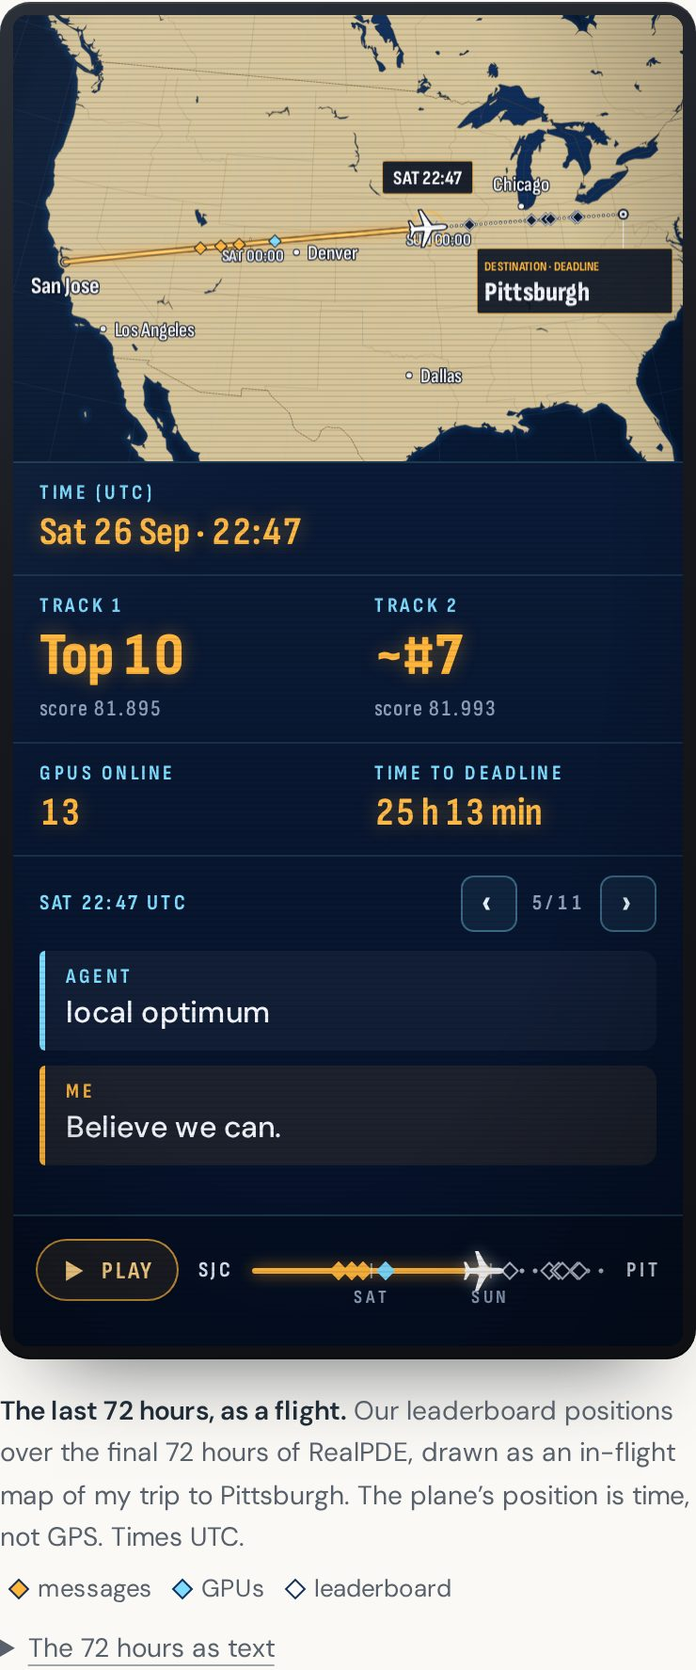
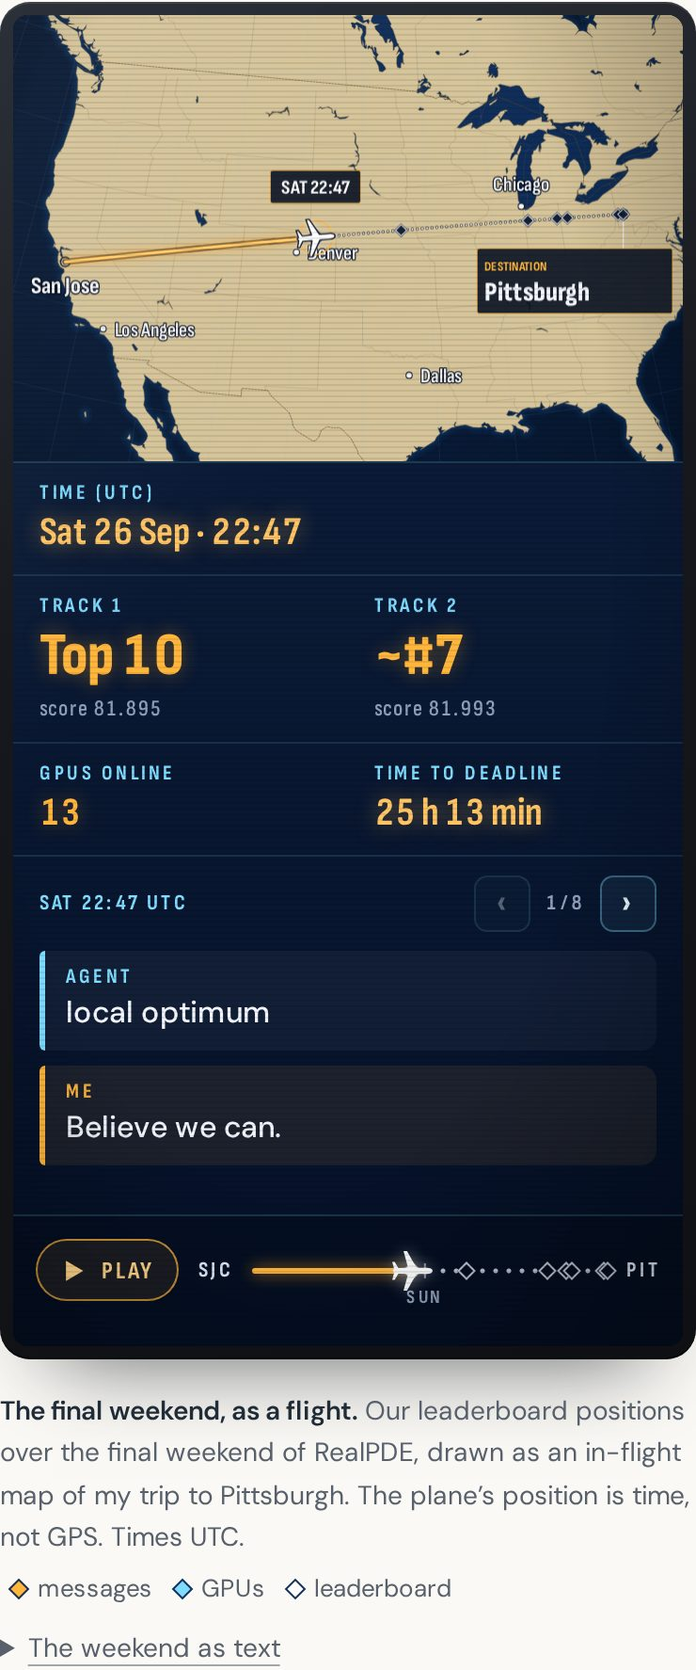
It's just possible: the flight figure covers only the final weekend
San doesn't want anything published that shows, even indirectly, that his messages
overlapped weekday work hours. The figure is now "The final weekend, as a flight": Saturday
07:00 UTC (midnight Pacific) to Sunday 18:10 UTC, when both tracks were first, and the
plane lands at Pittsburgh then. It opens with 13 GPUs online and Track 1 at 81.895 (top 10),
Track 2 at 81.993 (about 7th); its eight waypoints are all on the weekend. The Friday
exchanges and everything earlier are gone from the map, the panel, the scrubber, the text
list, the Markdown mirror and the crawler edition, and the site check asserts it. The map no
longer marks the day boundary (the scrubber does), and the destination flag no longer says
deadline. The caption is San's new one.

The prompt cards are named by the bold words that introduce them, so main's new CLAUDE.md
note and keep-pushing skill read "CLAUDE.md" and "Skill". The message cards carry only a
sender and a running number.

diff --git a/src/pages/notes/its-just-possible/components/FlightFigure.jsx b/src/pages/notes/its-just-possible/components/FlightFigure.jsx
@@ -1,18 +1,18 @@
 import { useEffect, useRef, useState } from 'react';
 import { queueBuild } from '../../../../components/art/build-queue';
-import { WAYPOINTS, SPAN, OPENING, stateAt, stamp, eventLog } from '../flight/timeline';
+import { WAYPOINTS, SPAN, SUNDAY, OPENING, stateAt, stamp, eventLog } from '../flight/timeline';
 import { PLANE_PATH } from './Leg';
 
-// "The last 72 hours, as a flight": a seatback moving map. The map's still is in the HTML;
+// "The final weekend, as a flight": a seatback moving map. The map's still is in the HTML;
 // once the figure is near the screen and the browser is idle, the same map is drawn live in a
 // canvas over it (src/pages/notes/its-just-possible/flight/). The panel, messages and controls
 // are real HTML, so they work before the canvas arrives, without it, and for screen readers.
 const ART = '/images/notes/its-just-possible';
 const LAST = WAYPOINTS[WAYPOINTS.length - 1].t;
-const RATE = 150;          // minutes of the weekend per second of playback
+const RATE = 80;           // minutes of the weekend per second of playback
 const DWELL = 1.6;         // seconds held at each waypoint
 const SENDER = { Agent: 'Agent', Me: 'Me', Fleet: 'GPUs', Leaderboard: 'Leaderboard' };
-const describe = s => `${s.clock.day} ${s.clock.date}, ${s.clock.time} UTC. Track 1 ${s.track1?.rank || 'rank unknown'}, Track 2 ${s.track2?.rank || 'no upload yet'}, ${s.gpus} GPUs online.`;
+const describe = s => `${s.clock.day} ${s.clock.date}, ${s.clock.time} UTC. Track 1 ${s.track1.rank}, Track 2 ${s.track2.rank}, ${s.gpus} GPUs online.`;
 
 function Readout({ label, value, sub, className = '' }) {
   return <div className={`ijp-readout ${className}`}>
@@ -104,7 +104,7 @@ export default function FlightFigure() {
           <picture>
             <source media="(max-width: 600px)" srcSet={`${ART}/flight-map-phone-760.webp`} />
             <img src={`${ART}/flight-map-1400.webp`} srcSet={`${ART}/flight-map-700.webp 700w, ${ART}/flight-map-1400.webp 1400w`} sizes="(max-width: 1060px) 70vw, 720px"
-              width="1400" height="933" alt="An in-flight map of the United States: a glowing route from San Jose to Pittsburgh, flown almost to the end, with waypoints along it for the messages and results of the final 72 hours." />
+              width="1400" height="933" alt="An in-flight map of the United States: a glowing route from San Jose to Pittsburgh, flown to the end, with waypoints along it for the messages and results of the final weekend." />
           </picture>
           <canvas ref={canvas} className={live ? 'is-live' : ''} aria-hidden="true" />
         </div>
@@ -112,8 +112,8 @@ export default function FlightFigure() {
         <div className="ijp-side">
           <div className="ijp-readouts">
             <Readout className="ijp-wide" label="Time (UTC)" value={`${s.clock.day} ${s.clock.date} · ${s.clock.time}`} />
-            <Readout className="ijp-rank" label="Track 1" value={s.track1?.rank || '—'} sub={s.track1 ? `score ${s.track1.score}` : 'no upload yet'} />
-            <Readout className="ijp-rank" label="Track 2" value={s.track2?.rank || '—'} sub={s.track2 ? `score ${s.track2.score}` : 'no upload yet'} />
+            <Readout className="ijp-rank" label="Track 1" value={s.track1.rank} sub={`score ${s.track1.score}`} />
+            <Readout className="ijp-rank" label="Track 2" value={s.track2.rank} sub={`score ${s.track2.score}`} />
             <Readout label="GPUs online" value={s.gpus} />
             <Readout label="Time to deadline" value={s.toGo} />
           </div>
@@ -128,7 +128,7 @@ export default function FlightFigure() {
             </div>
             <div className="ijp-message-body" aria-live="polite">
               {wp ? wp.lines.map(([who, text], i) => <p key={i} className={`ijp-line is-${who.toLowerCase()}`}><span className="ijp-who">{SENDER[who]}</span><span className="ijp-said">{text}</span></p>)
-                : <p className="ijp-line is-quiet"><span className="ijp-said">Friday, 00:00 UTC. 72 hours to the deadline.</span></p>}
+                : <p className="ijp-line is-quiet"><span className="ijp-said">Saturday morning: 13 GPUs online, Track 1 in the top 10, Track 2 about 7th.</span></p>}
             </div>
           </div>
         </div>
@@ -136,27 +136,27 @@ export default function FlightFigure() {
         <div className="ijp-bar">
           <button type="button" className="ijp-play" onClick={() => setPlaying(p => !p)} aria-pressed={playing}>
             <svg viewBox="0 0 16 16" width="14" height="14" aria-hidden="true">{playing ? <path d="M3 2h3.5v12H3zM9.5 2H13v12H9.5z" /> : <path d="M3.5 1.8 14 8 3.5 14.2z" />}</svg>
-            <span>{playing ? 'Pause' : atEnd ? 'Replay the 72 hours' : 'Play'}</span>
+            <span>{playing ? 'Pause' : atEnd ? 'Replay' : 'Play'}</span>
           </button>
           <span className="ijp-code">SJC</span>
           <div className="ijp-track" style={{ '--at': pct(t) }}>
             <span className="ijp-track-flown" aria-hidden="true" />
             {WAYPOINTS.map(w => <span key={w.t} className={`ijp-tick is-${w.kind}${w.t <= t ? ' is-passed' : ''}`} style={{ left: pct(w.t) }} aria-hidden="true" />)}
-            {[['Sat', 1440], ['Sun', 2880]].map(([d, v]) => <span key={d} className="ijp-day" style={{ left: pct(v) }} aria-hidden="true">{d}</span>)}
+            <span className="ijp-day" style={{ left: pct(SUNDAY) }} aria-hidden="true">Sun</span>
             <span className="ijp-thumb" aria-hidden="true"><svg viewBox="-11 -11 22 22" width="24" height="24"><path d={PLANE_PATH} /></svg></span>
             <input type="range" min="0" max={SPAN} step="1" value={Math.round(t)} onChange={event => go(Number(event.target.value))} onKeyDown={onKey}
-              aria-label="Time through the final 72 hours" aria-valuetext={describe(s)} />
+              aria-label="Time through the final weekend" aria-valuetext={describe(s)} />
           </div>
           <span className="ijp-code">PIT</span>
         </div>
       </div>
     </div>
     <figcaption>
-      <strong>The last 72 hours, as a flight.</strong> Our leaderboard positions over the final 72 hours of RealPDE, drawn as an in-flight map of my trip to Pittsburgh. The plane’s position is time, not GPS. Times UTC.
+      <strong>The final weekend, as a flight.</strong> Our leaderboard positions over the final weekend of RealPDE, drawn as an in-flight map of my trip to Pittsburgh. The plane’s position is time, not GPS. Times UTC.
       <span className="ijp-legend" aria-hidden="true"><i className="is-chat" /> messages <i className="is-fleet" /> GPUs <i className="is-board" /> leaderboard</span>
     </figcaption>
     <details className="ijp-log">
-      <summary>The 72 hours as text</summary>
+      <summary>The weekend as text</summary>
       <ol>{eventLog().map(e => <li key={e.t + e.text}><time>{e.when}</time> {e.text}</li>)}</ol>
     </details>
   </figure>;

diff --git a/src/pages/notes/its-just-possible/flight/timeline.js b/src/pages/notes/its-just-possible/flight/timeline.js
@@ -1,34 +1,30 @@
-// The final 72 hours of the RealPDE development phase, for the figure "The last 72 hours, as
-// a flight". Times are UTC, as minutes from Friday 25 September 00:00; the phase closed at
-// midnight on Sunday, so the flight lands at minute 4320. Quotes follow the essay's wording.
-export const START = Date.UTC(2026, 8, 25, 0, 0);
-export const SPAN = 72 * 60;
-const at = (day, h, m) => (day - 25) * 1440 + h * 60 + m;
+// The final weekend of the RealPDE development phase, for the figure "The final weekend, as a
+// flight": from Saturday 26 September 07:00 UTC to Sunday 18:10 UTC, when both tracks were
+// first. Times are minutes from the start; the plane lands at Pittsburgh at the end. The
+// figure covers only these hours. Quotes follow the essay's wording.
+export const START = Date.UTC(2026, 8, 26, 7, 0);
+const DEADLINE = Date.UTC(2026, 8, 28, 0, 0);
+const at = (day, h, m) => (Date.UTC(2026, 8, day, h, m) - START) / 60000;
+export const SPAN = at(27, 18, 10);
 
-// Our best leaderboard entries and ranks as reported at the time; null where we don't know.
+// Our best leaderboard entries and ranks as reported at the time.
 export const TRACK1 = [
-  { t: at(25, 0, 17), score: '81.679', rank: null },
-  { t: at(26, 0, 48), score: '81.895', rank: 'Top 10' },
+  { t: 0, score: '81.895', rank: 'Top 10' },
   { t: at(27, 14, 0), score: '81.895', rank: '#9' },
   { t: at(27, 17, 50), score: '82.218', rank: '#1' },
 ];
 export const TRACK2 = [
-  { t: at(25, 20, 4), score: '81.993', rank: '~#7' },
+  { t: 0, score: '81.993', rank: '~#7' },
   { t: at(26, 22, 50), score: '82.194', rank: '#2' },
   { t: at(27, 14, 0), score: '82.194', rank: '#5' },
   { t: at(27, 18, 10), score: '82.491', rank: '#1' },
 ];
-export const GPUS = [
-  { t: 0, n: '~4' }, { t: at(26, 3, 5), n: '13' }, { t: at(26, 23, 29), n: '15' }, { t: at(27, 12, 10), n: '17' },
-];
+export const GPUS = [{ t: 0, n: '13' }, { t: at(26, 23, 29), n: '15' }, { t: at(27, 12, 10), n: '17' }];
 
 // The waypoints: my messages, the agent's, and what changed. kind: 'chat' | 'fleet' | 'board'
 export const WAYPOINTS = [
-  { t: at(25, 17, 28), kind: 'chat', lines: [['Agent', 'No lever left… 82.3 is not reachable.']] },
-  { t: at(25, 20, 6), kind: 'chat', lines: [['Me', 'there is always ways to improve… if you think can’t then you can’t']] },
-  { t: at(25, 22, 28), kind: 'chat', lines: [['Agent', 'None of them is a robust #1.'], ['Me', 'stooppp!!!']] },
-  { t: at(26, 3, 5), kind: 'fleet', lines: [['Fleet', 'I add 9 GPUs: 13 online']] },
   { t: at(26, 22, 47), kind: 'chat', lines: [['Agent', 'local optimum'], ['Me', 'Believe we can.']] },
+  { t: at(26, 22, 50), kind: 'board', lines: [['Leaderboard', 'Track 2: 82.194, second']] },
   { t: at(27, 4, 11), kind: 'chat', lines: [['Me', 'Ok I am gonna leave you to it']] },
   { t: at(27, 12, 10), kind: 'fleet', lines: [['Fleet', 'The last four-hour push: 17 GPUs']] },
   { t: at(27, 14, 0), kind: 'board', lines: [['Leaderboard', '9th on Track 1, 5th on Track 2']] },
@@ -37,7 +33,9 @@ export const WAYPOINTS = [
   { t: at(27, 18, 10), kind: 'board', lines: [['Leaderboard', 'Track 2: first, 82.491']] },
 ];
 // The figure opens on the moment both tracks were first.
-export const OPENING = at(27, 18, 10);
+export const OPENING = SPAN;
+// The day boundary inside the weekend, for the route and the scrubber.
+export const SUNDAY = at(27, 0, 0);
 
 const DAYS = ['Sun', 'Mon', 'Tue', 'Wed', 'Thu', 'Fri', 'Sat'];
 const pad = n => String(n).padStart(2, '0');
@@ -46,24 +44,25 @@ export function clock(t) {
   return { day: DAYS[d.getUTCDay()], date: `${d.getUTCDate()} Sep`, time: `${pad(d.getUTCHours())}:${pad(d.getUTCMinutes())}` };
 }
 export const stamp = t => { const c = clock(t); return `${c.day} ${c.time}`; };
-export function toGo(t) { const left = Math.max(0, SPAN - Math.round(t)); return `${Math.floor(left / 60)} h ${pad(left % 60)} min`; }
-const latest = (list, t) => { let v = null; for (const e of list) if (e.t <= t) v = e; return v; };
+export function toGo(t) { const left = Math.max(0, Math.round((DEADLINE - START) / 60000 - t)); return `${Math.floor(left / 60)} h ${pad(left % 60)} min`; }
+const latest = (list, t) => { let v = list[0]; for (const e of list) if (e.t <= t) v = e; return v; };
 
 // Everything the screen shows at minute t.
 export function stateAt(t) {
   let wp = -1; WAYPOINTS.forEach((w, i) => { if (w.t <= t) wp = i; });
-  return { t, clock: clock(t), toGo: toGo(t), track1: latest(TRACK1, t), track2: latest(TRACK2, t), gpus: latest(GPUS, t)?.n ?? '~4', waypoint: wp };
+  return { t, clock: clock(t), toGo: toGo(t), track1: latest(TRACK1, t), track2: latest(TRACK2, t), gpus: latest(GPUS, t).n, waypoint: wp };
 }
 
-// The whole weekend as plain lines of text, for the figure's text version and the Markdown mirror.
+// The weekend as plain lines of text, for the figure's text version and the Markdown mirror.
 const rankWords = rank => rank === '~#7' ? 'about 7th' : rank === 'Top 10' ? 'top 10' : rank;
 export function eventLog() {
   const said = w => w.kind === 'chat' ? w.lines.map(([who, text]) => `${who}: “${text}”`).join(' ') : `${w.lines[0][1]}.`;
-  const lone = list => list.filter(e => !WAYPOINTS.some(w => w.t === e.t));
+  const lone = list => list.filter(e => e.t > 0 && !WAYPOINTS.some(w => w.t === e.t));
   return [
+    { t: 0, text: `Where we start: Track 1 ${TRACK1[0].score} (${rankWords(TRACK1[0].rank)}), Track 2 ${TRACK2[0].score} (${rankWords(TRACK2[0].rank)}), ${GPUS[0].n} GPUs online.` },
     ...WAYPOINTS.map(w => ({ t: w.t, text: said(w) })),
-    ...lone(TRACK1).map(e => ({ t: e.t, text: `Track 1 upload: ${e.score}${e.rank ? ` (${rankWords(e.rank)})` : ''}.` })),
-    ...lone(TRACK2).map(e => ({ t: e.t, text: `Track 2 upload: ${e.score}${e.rank ? ` (${rankWords(e.rank)})` : ''}.` })),
-    ...lone(GPUS.slice(1)).map(e => ({ t: e.t, text: `${e.n} GPUs online.` })),
-  ].sort((a, b) => a.t - b.t).map(e => ({ ...e, when: stamp(e.t) })).concat([{ t: SPAN, when: 'Mon 00:00', text: 'The development phase closes.' }]);
+    ...lone(TRACK1).map(e => ({ t: e.t, text: `Track 1: ${e.score} (${rankWords(e.rank)}).` })),
+    ...lone(TRACK2).map(e => ({ t: e.t, text: `Track 2: ${e.score} (${rankWords(e.rank)}).` })),
+    ...lone(GPUS).map(e => ({ t: e.t, text: `${e.n} GPUs online.` })),
+  ].sort((a, b) => a.t - b.t).map(e => ({ ...e, when: stamp(e.t) }));
 }

diff --git a/src/pages/notes/its-just-possible/flight/flight-map.js b/src/pages/notes/its-just-possible/flight/flight-map.js
@@ -1,4 +1,4 @@
-// The figure's moving map: "The last 72 hours, as a flight". The map, cities and the route
+// The figure's moving map: "The final weekend, as a flight". The map, cities and the route
 // still to fly are printed once per size; each frame adds the route flown so far, the
 // waypoints and the plane at minute t. The plane's position is time, not GPS.
 import { albers, fitView, greatCircle, drawMap, drawPlane, haloText, labelSpot, COLORS, PLACES, CITIES } from './map.js';
@@ -49,13 +49,6 @@ export async function createFlightMap({ canvas, width, height, small = false }) 
   b.lineCap = 'round'; b.lineJoin = 'round';
   b.strokeStyle = 'rgba(6,18,40,.7)'; b.lineWidth = 4.4; b.setLineDash([.1, 6.5]); line(b, route.pts); b.stroke();
   b.strokeStyle = 'rgba(255,255,255,.95)'; b.lineWidth = 2.4; line(b, route.pts); b.stroke(); b.setLineDash([]);
-  // day boundaries along the route
-  for (const [label, t] of [['SAT', 1440], ['SUN', 2880]]) {
-    const p = route.at(t / SPAN), nx = -Math.sin(p.angle), ny = Math.cos(p.angle);
-    b.strokeStyle = 'rgba(6,18,40,.85)'; b.lineWidth = 2.2; b.beginPath(); b.moveTo(p.x - nx * 7, p.y - ny * 7); b.lineTo(p.x + nx * 7, p.y + ny * 7); b.stroke();
-    b.strokeStyle = '#ffffff'; b.lineWidth = 1; b.stroke();
-    haloText(b, `${label} 00:00`, p.x + nx * 20, p.y + ny * 20 + 4, { font: `700 ${11 * k}px ${F}`, align: 'center', width: 3, color: '#dfe8f6' });
-  }
   // origin and destination
   const o = route.at(0), d = route.at(1);
   for (const p of [o, d]) { b.fillStyle = COLORS.halo; b.beginPath(); b.arc(p.x, p.y, 7.5, 0, TAU); b.fill(); b.fillStyle = COLORS.label; b.beginPath(); b.arc(p.x, p.y, 5, 0, TAU); b.fill(); b.fillStyle = COLORS.seaDeep; b.beginPath(); b.arc(p.x, p.y, 2, 0, TAU); b.fill(); }
@@ -66,7 +59,7 @@ export async function createFlightMap({ canvas, width, height, small = false }) 
   b.strokeStyle = COLORS.label; b.lineWidth = 1.3; b.beginPath(); b.moveTo(d.x, d.y + 8); b.lineTo(d.x, fy); b.stroke();
   b.fillStyle = 'rgba(5,14,32,.88)'; b.beginPath(); b.roundRect(fx, fy, fw, fh, 3); b.fill();
   b.strokeStyle = 'rgba(255,182,61,.85)'; b.lineWidth = 1.1; b.stroke();
-  b.textAlign = 'left'; b.fillStyle = COLORS.amber; b.font = `700 ${10 * kf}px ${F}`; b.fillText('DESTINATION · DEADLINE', fx + 10, fy + 17 * kf);
+  b.textAlign = 'left'; b.fillStyle = COLORS.amber; b.font = `700 ${10 * kf}px ${F}`; b.fillText('DESTINATION', fx + 10, fy + 17 * kf);
   b.fillStyle = COLORS.label; b.font = `800 ${21 * kf}px ${F}`; b.fillText('Pittsburgh', fx + 10, fy + 40 * kf);
 
   const marks = WAYPOINTS.map(w => ({ ...w, p: route.at(w.t / SPAN) }));

diff --git a/src/pages/notes/its-just-possible/its-just-possible.css b/src/pages/notes/its-just-possible/its-just-possible.css
@@ -36,6 +36,7 @@
 /* ── prompts and notes: the text I typed, as a system prompt ── */
 .personal-site .ijp-page .prose .ijp-card-head { position: relative; z-index: 1; display: flex; justify-content: space-between; gap: 16px; margin: 0; padding: 11px 20px 10px; border-bottom: 1px solid var(--ijp-rule); background: rgba(127, 220, 255, .07); font: 700 12px/1 var(--ijp-ui); letter-spacing: .16em; text-transform: uppercase; }
 .personal-site .ijp-page .ijp-card-label { color: var(--ijp-amber); }
+.personal-site .ijp-page .ijp-card-label.is-file { text-transform: none; letter-spacing: .08em; }
 .personal-site .ijp-page .ijp-card-to { color: var(--ijp-muted); }
 .personal-site .ijp-page .ijp-prompt-text, .personal-site .ijp-page .prose .ijp-note-list { position: relative; z-index: 1; padding: 16px 22px 18px; font: 400 15.5px/1.7 'JetBrains Mono', ui-monospace, monospace; color: #f4f7fc; }
 .personal-site .ijp-page .prose .ijp-prompt-text p { margin: 0 0 10px; padding-left: 1.3em; text-indent: -1.3em; }
@@ -118,7 +119,7 @@
   .personal-site .ijp-page .ijp-side { border-left: 0; border-top: 1px solid var(--ijp-rule); }
   .personal-site .ijp-page .ijp-readouts { grid-template-columns: 1.3fr 1fr 1fr; }
   .personal-site .ijp-page .ijp-readouts > :nth-child(2), .personal-site .ijp-page .ijp-readouts > :nth-child(4) { border-right: 0; }
-  .personal-site .ijp-page .ijp-readouts > :not(:last-child):not(.ijp-wide) { border-right: 1px solid rgba(127, 220, 255, .12); }
+  .personal-site .ijp-page .ijp-readouts > :not(:last-child):not(:nth-child(3)) { border-right: 1px solid rgba(127, 220, 255, .12); }
   .personal-site .ijp-page .ijp-wide { grid-column: auto; }
   .personal-site .ijp-page .ijp-message-body { min-height: 128px; }
 }
@@ -136,7 +137,7 @@
   .personal-site .ijp-page .ijp-lcd { border-radius: 8px; }
   .personal-site .ijp-page .ijp-readouts { grid-template-columns: 1fr 1fr; }
   .personal-site .ijp-page .ijp-wide { grid-column: 1 / -1; }
-  .personal-site .ijp-page .ijp-readouts > :not(:last-child):not(.ijp-wide) { border-right: 0; }
+  .personal-site .ijp-page .ijp-readouts > :not(:last-child):not(:nth-child(3)) { border-right: 0; }
   .personal-site .ijp-page .ijp-readouts > :nth-child(2), .personal-site .ijp-page .ijp-readouts > :nth-child(4) { border-right: 1px solid rgba(127, 220, 255, .12); }
   .personal-site .ijp-page .ijp-rank .ijp-val { font-size: 32px; }
   .personal-site .ijp-page .ijp-bar { gap: 10px; padding: 12px 12px 24px; }

diff --git a/src/pages/notes/its-just-possible/essay-source.js b/src/pages/notes/its-just-possible/essay-source.js
@@ -45,9 +45,10 @@ function classify(text, before) {
   const paras = text.split(/\n\s*\n/).map(p => p.trim()).filter(Boolean);
   if (paras.every(p => MESSAGE.test(p))) return { type: 'chat', messages: paras.map(p => ({ sender: MESSAGE.exec(p)[1], text: p.replace(MESSAGE, '') })) };
   if (paras.every(p => NOTE.test(p))) return { type: 'notes', notes: paras.map(p => ({ title: NOTE.exec(p)[1], text: p.replace(NOTE, '') })) };
-  // a prompt is named by the paragraph that introduces it
-  const lead = [...before].reverse().find(p => p.type === 'md')?.text.split('\n\n').pop() || '';
-  return { type: 'prompt', label: /goal/i.test(lead) ? 'Standing goal' : 'Prompt', text: paras.join('\n\n') };
+  // a prompt is named by the bold words of the paragraph that introduces it
+  const lead = ([...before].reverse().find(p => p.type === 'md')?.text.split('\n\n').pop() || '').match(/^\*\*([^*]+)\*\*/)?.[1] || '';
+  const [label, to] = /CLAUDE\.md|instructions/i.test(lead) ? ['CLAUDE.md', 'at the top of the file'] : /skill/i.test(lead) ? ['Skill', 'written by Claude'] : /goal/i.test(lead) ? ['Standing goal', 'to Claude Code'] : ['Prompt', 'to Claude Code'];
+  return { type: 'prompt', label, to, text: paras.join('\n\n') };
 }
 
 // For the section markers: how far through the essay each section starts, and the reading

diff --git a/src/pages/notes/its-just-possible/components/Cards.jsx b/src/pages/notes/its-just-possible/components/Cards.jsx
@@ -19,9 +19,9 @@ export function ChatCard({ messages }) {
   </blockquote>;
 }
 
-export function PromptCard({ label, text }) {
+export function PromptCard({ label, to, text }) {
   return <blockquote className="ijp-prompt">
-    <p className="ijp-card-head"><span className="ijp-card-label">{label}</span><span className="ijp-card-to">to Claude Code</span></p>
+    <p className="ijp-card-head"><span className={`ijp-card-label${/\.md$/.test(label) ? ' is-file' : ''}`}>{label}</span><span className="ijp-card-to">{to}</span></p>
     <div className="ijp-prompt-text">{text.split('\n\n').map((para, i) => <p key={i}><span className="ijp-caret" aria-hidden="true">›</span><Text>{para}</Text></p>)}</div>
   </blockquote>;
 }

diff --git a/src/pages/notes/its-just-possible/ItsJustPossibleEssay.jsx b/src/pages/notes/its-just-possible/ItsJustPossibleEssay.jsx
@@ -29,7 +29,7 @@ const components = { a: ({ href = '', children }) => <SiteLink href={href}>{chil
 
 function Piece({ piece }) {
   if (piece.type === 'chat') return <ChatCard messages={piece.messages} />;
-  if (piece.type === 'prompt') return <PromptCard label={piece.label} text={piece.text} />;
+  if (piece.type === 'prompt') return <PromptCard label={piece.label} to={piece.to} text={piece.text} />;
   if (piece.type === 'notes') return <NotesCard notes={piece.notes} />;
   if (piece.type === 'figure') return <FlightFigure />;
   return <ReactMarkdown remarkPlugins={[remarkGfm]} components={components}>{piece.text}</ReactMarkdown>;

diff --git a/design/reviews/2026-10-its-just-possible/README.md b/design/reviews/2026-10-its-just-possible/README.md
@@ -1,5 +1,24 @@
 # "It's just possible": review
 
+## The figure covers only the final weekend (October 3, 2026)
+
+San doesn't want anything published that shows, even indirectly, that his messages overlapped
+weekday work hours. The figure is now "The final weekend, as a flight": Saturday 26 September
+07:00 UTC (midnight Pacific) to Sunday 18:10 UTC, when both tracks were first, and the plane
+lands at Pittsburgh then. It starts with 13 GPUs online, Track 1 at 81.895 (top 10) and Track 2
+at 81.993 (about 7th). Its eight waypoints are all on the weekend: "local optimum" / "Believe we
+can." (Sat 22:47), Track 2 second (22:50), "Ok I am gonna leave you to it" (Sun 04:11), the last
+push on 17 GPUs (12:10), 9th and 5th (14:00), "why freeze early…" (14:39), Track 1 first (17:50),
+Track 2 first (18:10). Nothing from Friday or earlier appears in the map, panel, scrubber, text
+list, Markdown mirror or crawler edition; the site check asserts it. The essay's message cards
+carry only a sender and a running number (MSG 01 to 08). The prompt cards are now named by what
+introduces them: Prompt, CLAUDE.md, Standing notes and Skill.
+
+Screenshots: `figure-1-sun-1810-*` (the opening, both first), `figure-2-sat-0700-*` (the start),
+`figure-3-sat-2247-*` (the first waypoint), `card-claude-md-*`, `card-skill-*`, and
+`figure-still-no-javascript-desktop.jpg`. Earlier screenshots of the 72-hour version were removed
+from this folder; they remain in the repository's history.
+
 ## Art pass (October 3, 2026)
 
 San's notes after reading milestone 1 live: the essay must follow the site's taste rules (its own
@@ -12,21 +31,19 @@ highlighted better". The text is his rewrite from main, unchanged.
 - **Prompt and note cards.** The opening prompt, the standing goal and the standing notes read as
   what I typed: a system-prompt card in JetBrains Mono with a caret, labelled Prompt, Standing goal
   and Standing notes. The labels come from the paragraph that introduces each block.
-- **The figure**, "The last 72 hours, as a flight", closes the section "The weekend": a seatback
+- **The figure** (since narrowed to the final weekend, above) closes the section "The weekend": a seatback
   screen with the live map, a panel (time, both ranks and scores, GPUs online, time to deadline),
   the current waypoint's messages, and a flight-progress scrubber with Play, previous and next.
   It opens on Sunday 18:10, both tracks first. Arrow keys move 30 minutes, Page Up and Page Down
   six hours, Home and End to either end. With reduced motion, Play steps from waypoint to waypoint.
   The map's still is in the HTML; the canvas is drawn over it when the figure nears the screen.
-  "The 72 hours as text" lists every event; the Markdown mirror and crawler edition carry it too.
+  A text list under the figure lists every event; the Markdown mirror and crawler edition carry it too.
 - **Cover.** A tighter fit, a cased and glowing route, a larger title plate. The live layer: the
   plane inches along, the dots ahead march to Pittsburgh and the rank readouts flicker now and then.
 - **Section strips.** The essay opens with "Now boarding · 8 min to destination", each section
   with the plane as far along as the reader is and the reading time left, and lands at "Arrived".
 
-Screenshots, 1440 and 390 wide: `header-*`, `section-break-*`, `card-messages-*`, `card-goal-*`,
-`card-notes-*`, `figure-1-sun-1810-*`, `figure-2-fri-2228-*`, `figure-3-sat-2247-*`, `cover.jpg`,
-and `figure-still-no-javascript-desktop.jpg` (the prerendered page without scripts).
+Screenshots, 1440 and 390 wide: `header-*`, `section-break-*`, `card-messages-*`, `card-notes-*` and `cover.jpg`.
 
 ## Milestone 1 (October 3, 2026)
 

diff --git a/docs/design/2026-10-02-site-wide-art-direction.md b/docs/design/2026-10-02-site-wide-art-direction.md
@@ -110,5 +110,5 @@ and add the new style to it.
 | Two hands, one sheet of paper (IROS 2026 essay) | Origami instruction diagrams in Yoshizawa–Randlett notation: thin confident ink on warm paper, dashed valley and dot-dash mountain folds, curved fold arrows, step numbers in circles, a grey tint for the paper's back, and one accent, the blue of the challenge sheet's printed guide lines. The hands in the diagrams are two five-fingered robot hands with fingertip sensor pads, in the same line. Lettering: Zen Maru Gothic. The cover is step 2 of 5 (first version live; a five-folds step-through figure and a cover polish follow). Distinct from the earlier origami study, which was a photographed folded-paper model |
 | Paper Robots homepage proposal | Evidence-loop camcorder opening (blue-violet halftone space, folded-paper screen) leading into each film's own title card |
 | Dyson Swarm samples (proposals) | 1970s airbrush and frisket travel posters; astronomical glass-plate negative with ink and grease-pencil annotations; plein-air watercolour over a graphite underdrawing |
-| It's just possible (essay, October 2026) | Airline seatback moving map, the Airshow look: deep navy sea, flat sand land, a thin 5° graticule, Natural Earth coastlines with state and border lines, a glowing amber great-circle route with the rest dotted, a small white plane, a destination flag, and data panels in Sofia Sans Condensed with cyan labels and amber readouts, under LCD scanlines, vignette and glass sheen, in a dark plastic bezel. The cover is the screen in 2:3, the title as the destination label (live: the plane inches along, the dots march on, the ranks flicker). The figure "The last 72 hours, as a flight" is a full seatback screen whose plane's position is time. The quoted messages are small screens (my lines in amber, the agent's in cyan) and the prompts and standing notes are system-prompt cards in JetBrains Mono; each section opens with a flight-progress strip on paper (SJC to PIT, the reading time left) |
+| It's just possible (essay, October 2026) | Airline seatback moving map, the Airshow look: deep navy sea, flat sand land, a thin 5° graticule, Natural Earth coastlines with state and border lines, a glowing amber great-circle route with the rest dotted, a small white plane, a destination flag, and data panels in Sofia Sans Condensed with cyan labels and amber readouts, under LCD scanlines, vignette and glass sheen, in a dark plastic bezel. The cover is the screen in 2:3, the title as the destination label (live: the plane inches along, the dots march on, the ranks flicker). The figure "The final weekend, as a flight" is a full seatback screen whose plane's position is time (it covers only Saturday 07:00 to Sunday 18:10 UTC). The quoted messages are small screens (my lines in amber, the agent's in cyan) and the prompt, the CLAUDE.md note, the standing notes and the skill are system-prompt cards in JetBrains Mono; each section opens with a flight-progress strip on paper (SJC to PIT, the reading time left) |
 | Earlier studies | Cyanotype, line engraving, mezzotint, sumi ink, suminagashi marbling, pochoir, paper-cut collage, origami, cross-stitch, chalkboard, banknote engraving, camcorder halftone loop, azulejo tile, native pixel art, komorebi light |

diff --git a/public/notes/its-just-possible.md b/public/notes/its-just-possible.md
@@ -31,17 +31,11 @@ Scores in RealPDE sit around 82 out of 100, a mix of accuracy, speed and how wel
 
 All weekend I worked through one long Claude Code session running Opus 5.5, remotely, some of it over airplane wifi. From that session I directed roughly 200 helper agents in all, using as many as 17 rented GPUs at once. The push cost about $1,200 all in, for GPUs, my Claude subscription and some credits. If first place holds on both tracks, the prize is $12,000.
 
-**Figure: The last 72 hours, as a flight.** Our leaderboard positions over the final 72 hours of RealPDE, drawn as an in-flight map of my trip to Pittsburgh. The plane's position is time, not GPS. Times UTC. The [web edition](https://www.sankala.me/notes/its-just-possible#flight) has the interactive map; here it is as a list:
+**Figure: The final weekend, as a flight.** Our leaderboard positions over the final weekend of RealPDE, drawn as an in-flight map of my trip to Pittsburgh. The plane's position is time, not GPS. Times UTC. The [web edition](https://www.sankala.me/notes/its-just-possible#flight) has the interactive map; here it is as a list:
 
-- Fri 00:17: Track 1 upload: 81.679.
-- Fri 17:28: Agent: “No lever left… 82.3 is not reachable.”
-- Fri 20:04: Track 2 upload: 81.993 (about 7th).
-- Fri 20:06: Me: “there is always ways to improve… if you think can’t then you can’t”
-- Fri 22:28: Agent: “None of them is a robust #1.” Me: “stooppp!!!”
-- Sat 00:48: Track 1 upload: 81.895 (top 10).
-- Sat 03:05: I add 9 GPUs: 13 online.
+- Sat 07:00: Where we start: Track 1 81.895 (top 10), Track 2 81.993 (about 7th), 13 GPUs online.
 - Sat 22:47: Agent: “local optimum” Me: “Believe we can.”
-- Sat 22:50: Track 2 upload: 82.194 (#2).
+- Sat 22:50: Track 2: 82.194, second.
 - Sat 23:29: 15 GPUs online.
 - Sun 04:11: Me: “Ok I am gonna leave you to it”
 - Sun 12:10: The last four-hour push: 17 GPUs.
@@ -49,7 +43,6 @@ All weekend I worked through one long Claude Code session running Opus 5.5, remo
 - Sun 14:39: Me: “why freeze early when we can continue pushing?”
 - Sun 17:50: Track 1: first, 82.218.
 - Sun 18:10: Track 2: first, 82.491.
-- Mon 00:00: The development phase closes.
 
 ## The main thing: don't stop
 
